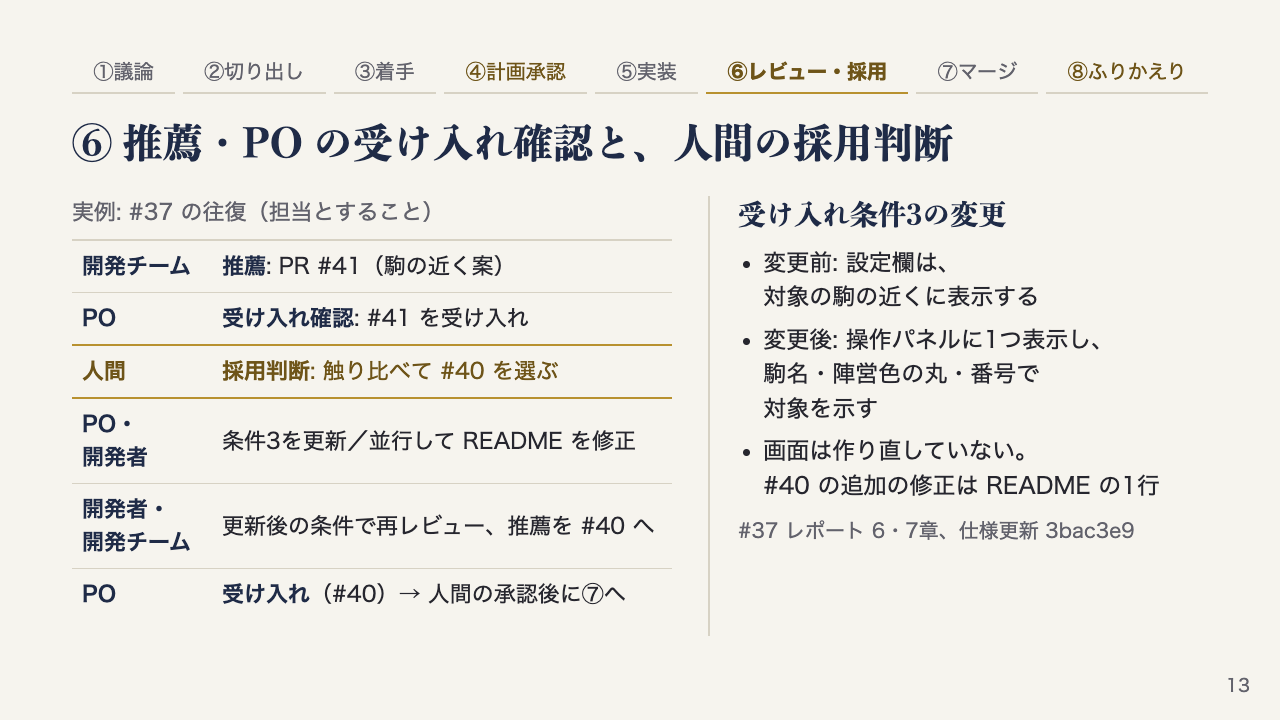
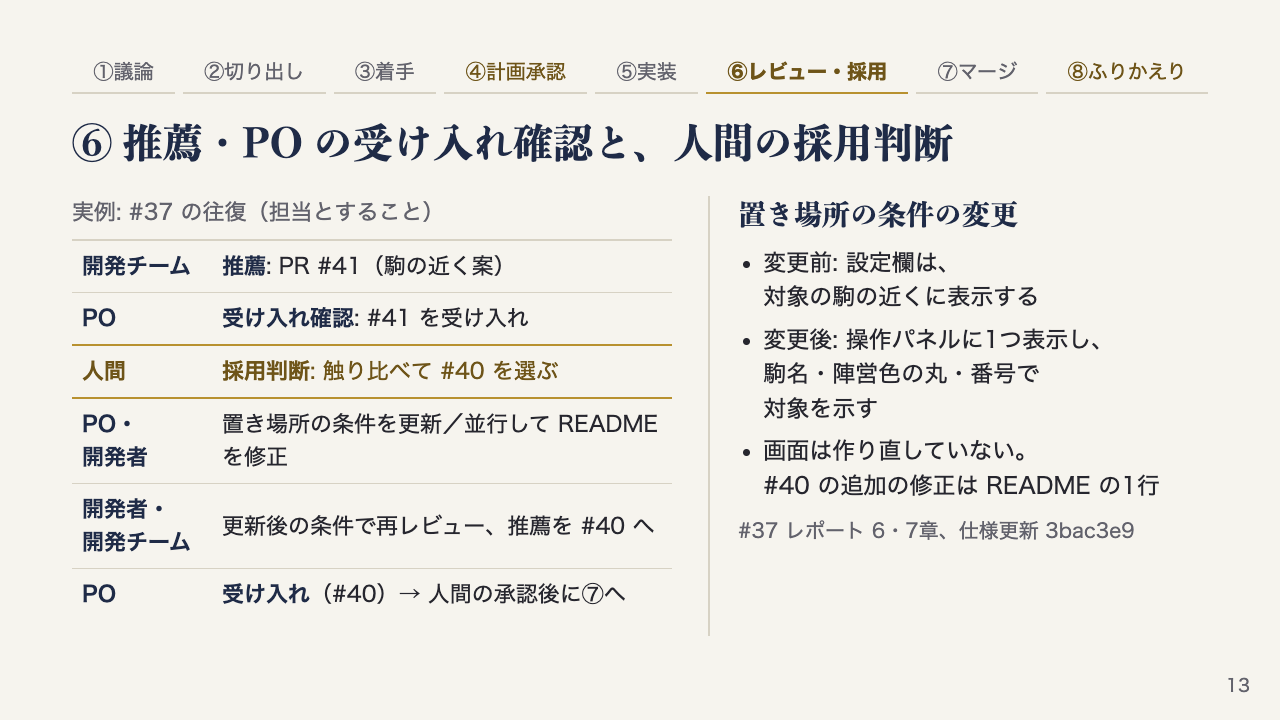
docs: drop condition number from slide 13 body (#17)

Changed region(s): [[0.1562, 0.55, 0.5312, 0.6722], [0.5625, 0.275, 0.8125, 0.3361]]

diff --git a/slides/index.md b/slides/index.md
@@ -600,13 +600,13 @@ overstrata-board の実例:
       <tr><th>開発チーム</th><td><b>推薦</b>: PR #41（駒の近く案）</td></tr>
       <tr><th>PO</th><td><b>受け入れ確認</b>: #41 を受け入れ</td></tr>
       <tr class="decide"><th>人間</th><td><b>採用判断</b>: 触り比べて #40 を選ぶ</td></tr>
-      <tr><th>PO・開発者</th><td>条件3を更新／並行して README を修正</td></tr>
+      <tr><th>PO・開発者</th><td>置き場所の条件を更新／並行して README を修正</td></tr>
       <tr><th>開発者・<br>開発チーム</th><td>更新後の条件で再レビュー、推薦を #40 へ</td></tr>
       <tr><th>PO</th><td><b>受け入れ</b>（#40）→ 人間の承認後に⑦へ</td></tr>
     </table>
   </div>
   <div class="example">
-    <h3>受け入れ条件3の変更</h3>
+    <h3>置き場所の条件の変更</h3>
     <ul>
       <li>変更前: 設定欄は、<br>対象の駒の近くに表示する</li>
       <li>変更後: 操作パネルに1つ表示し、<br>駒名・陣営色の丸・番号で<br>対象を示す</li>
